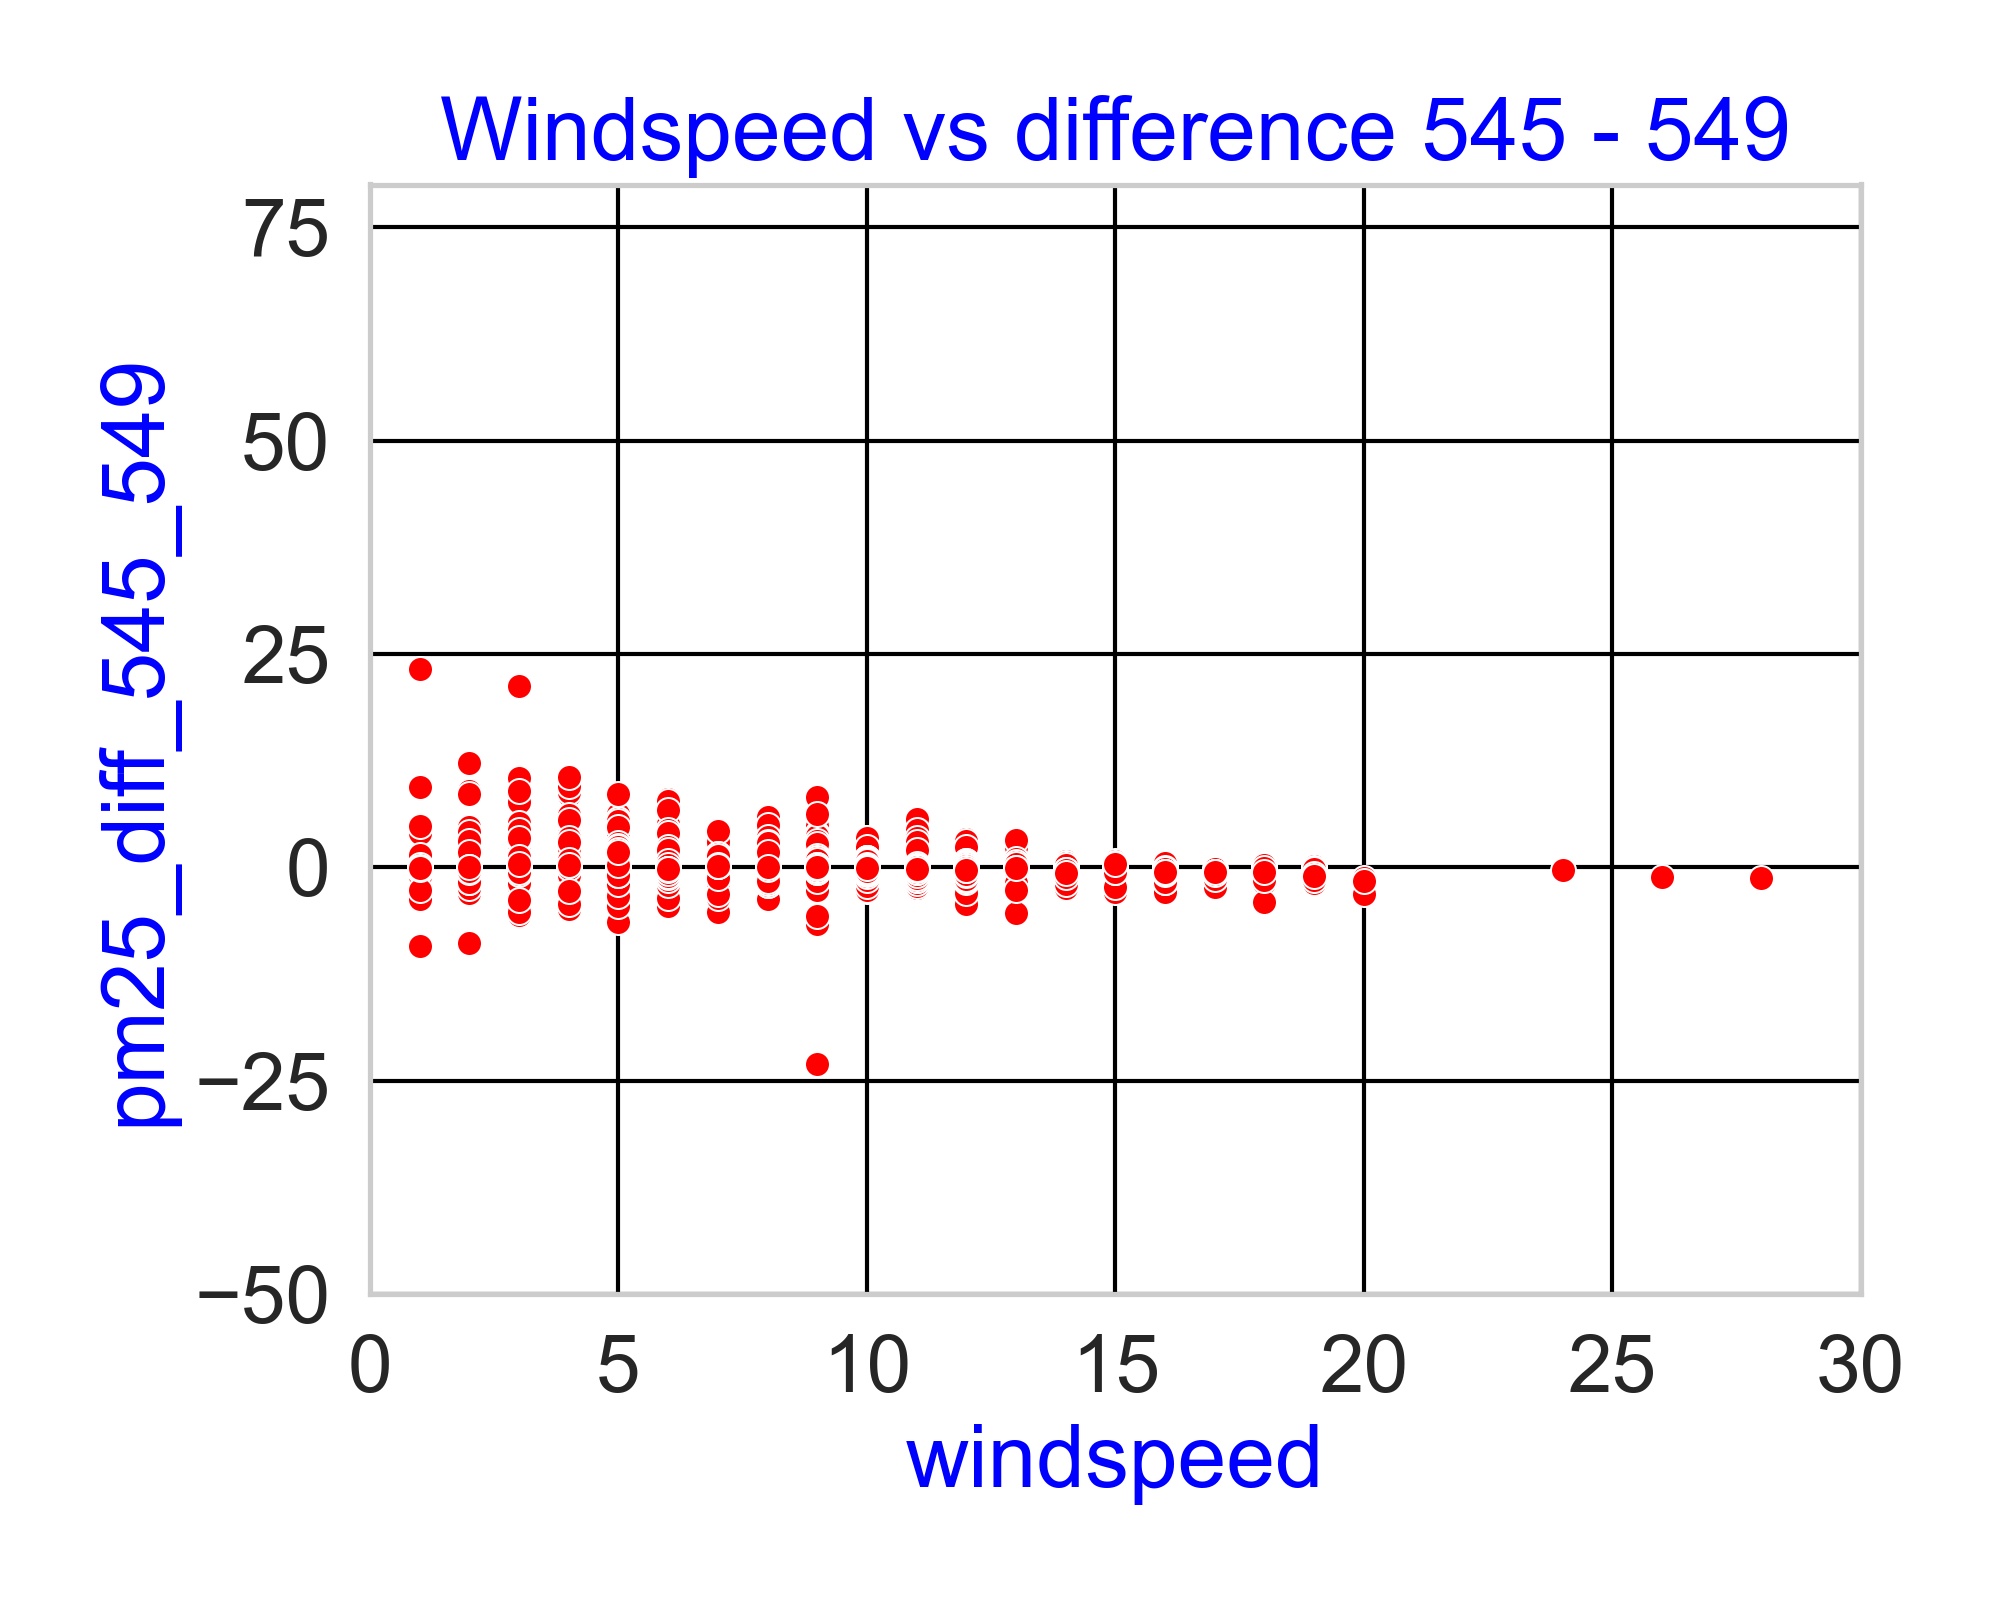
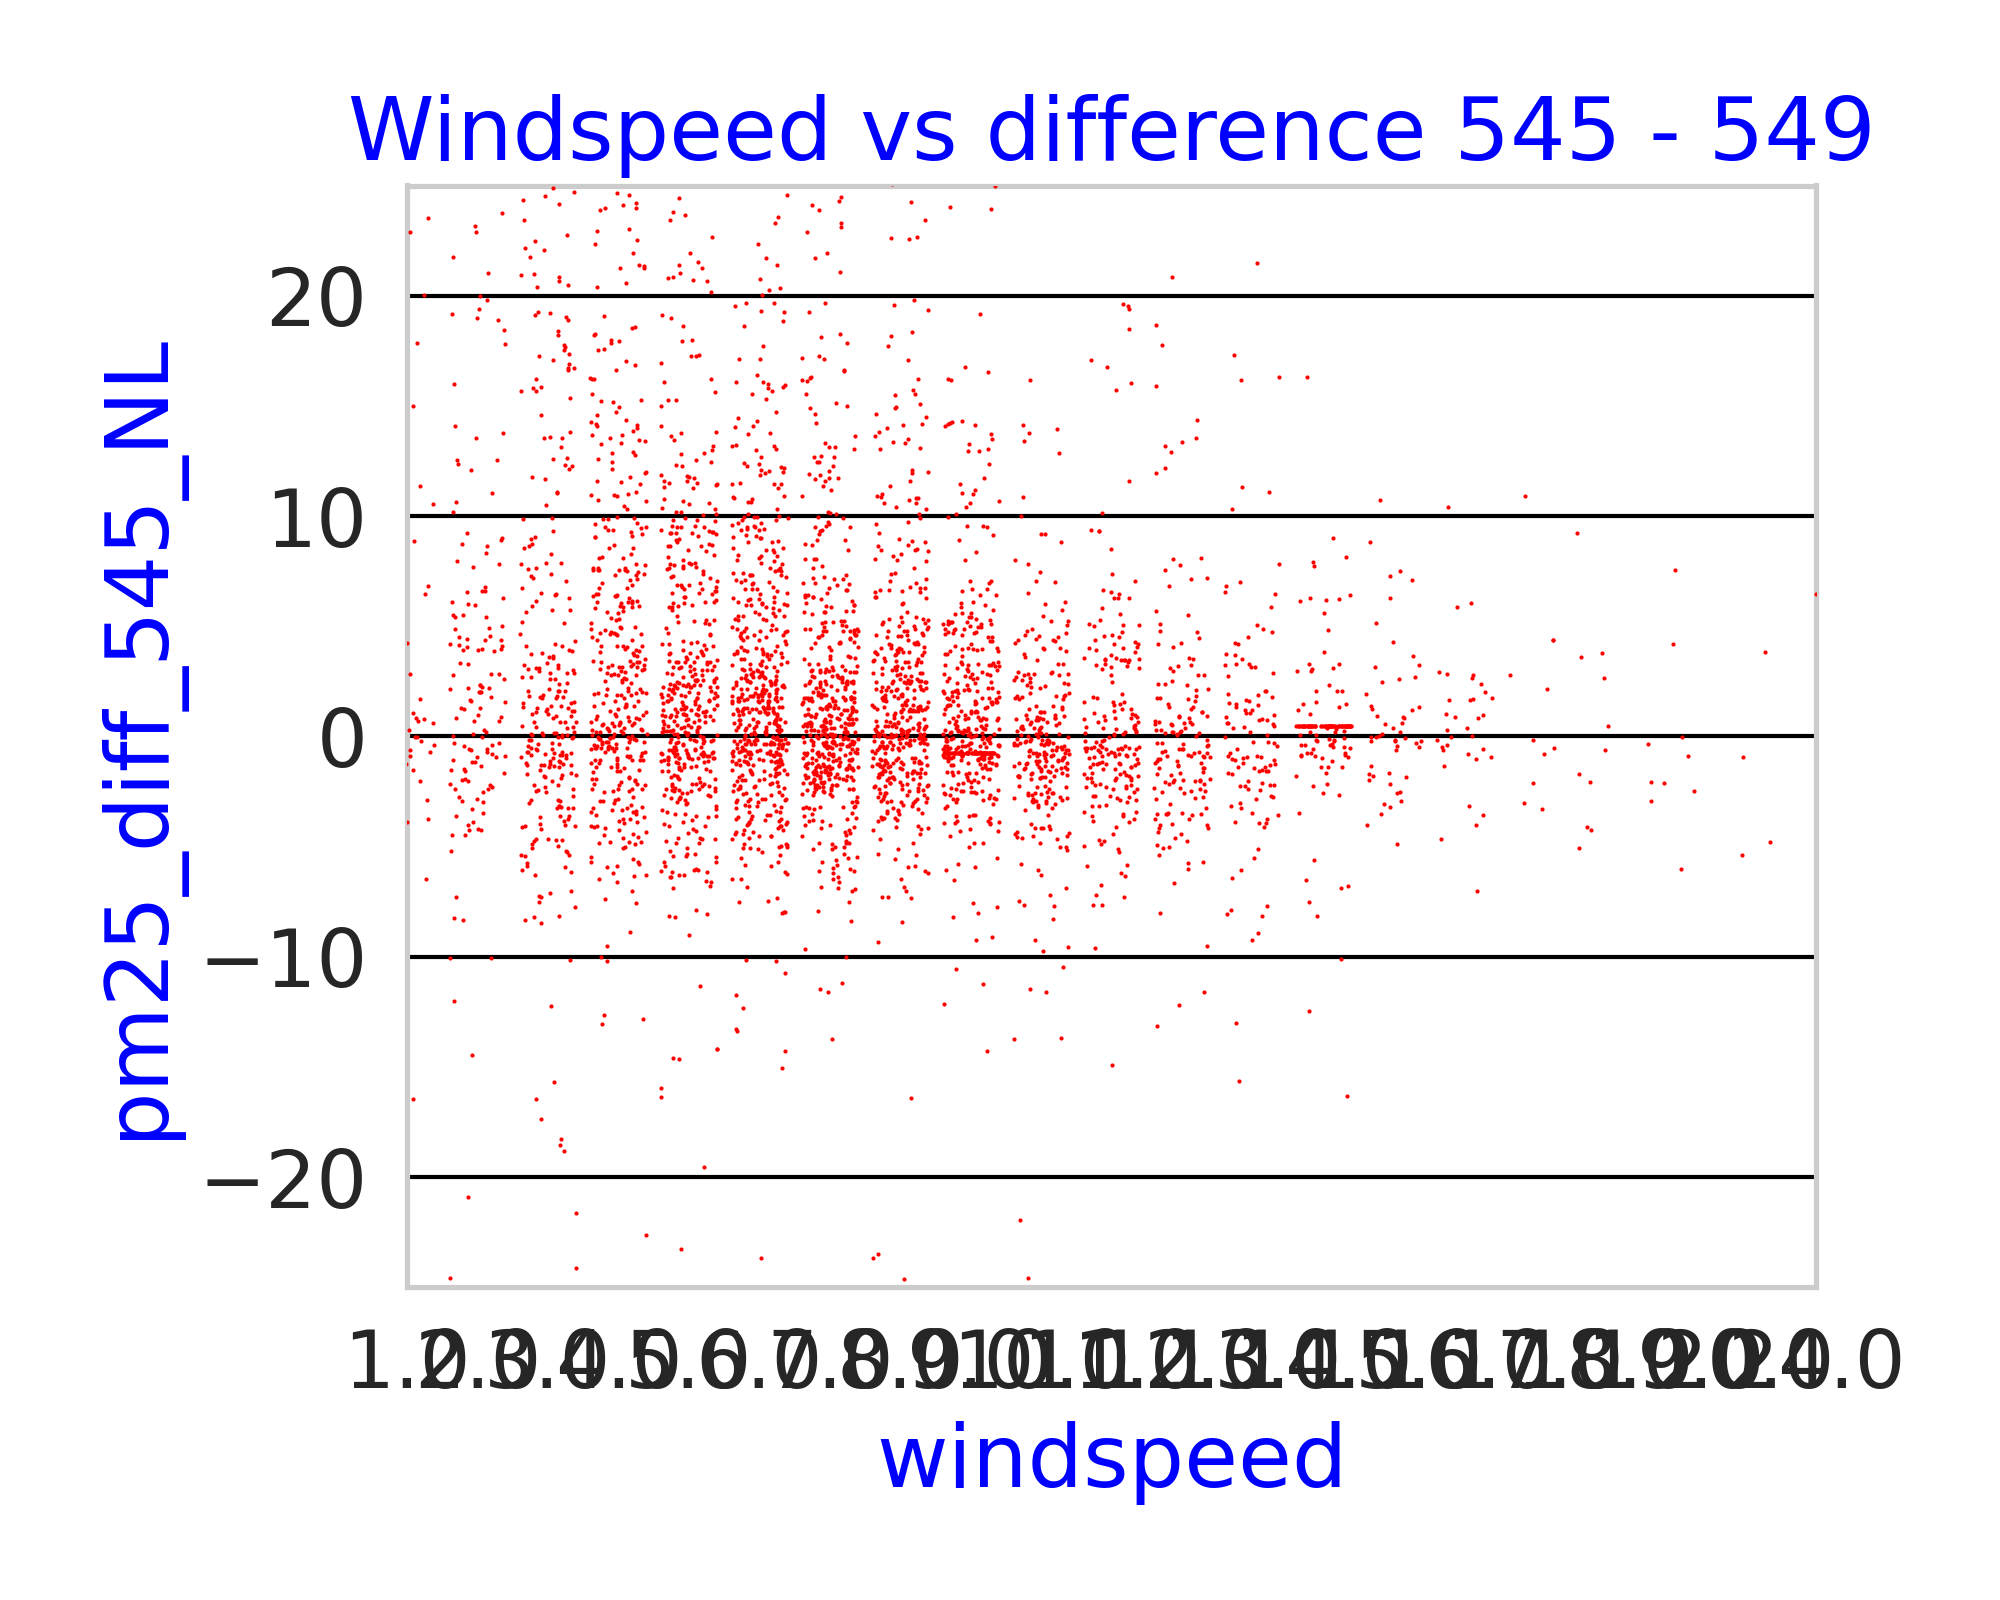
joint and stripplots

diff --git a/python/projects/staartje-20231003/Projectanalyzer.py b/python/projects/staartje-20231003/Projectanalyzer.py
@@ -152,6 +152,36 @@ def runit():
     createSuperFrame(allSensorsText, KNMI_225)
     augmentSuperframe()
 
+    simpleJointPlot(superFrameAugmented, x="pm25_NL49570", y="pm25_HLL_545",
+                      xlim=(-10, 50), ylim=(-20, 40), title="LML Absolute vs 545",
+                      filename=projectdir+"/3-49570-545", )
+
+    return
+
+#    setPlotSizeLandscape()
+#    lplot = sns.catplot(s=1, data=superFrameAugmented, kind="swarm", x="windspeed",
+#                        y="pm25_diff_545_NL")
+#    lplot.set(xlim=(0, 25))
+#    lplot.set(ylim=(-50, 50))
+
+    simpleStripPlot(superFrameAugmented, x="windspeed", y="pm25_diff_545_NL",
+                      xlim=(0, 20), ylim=(-25, 25), title="Windspeed vs difference 545 - NL",
+                      filename=projectdir+"/4-windspeed-545-NL")
+
+    simpleStripPlot(superFrameAugmented, x="windspeed", y="temperature_HLL_545",
+                      xlim=(0, 20), ylim=(0, 40), title="Windspeed vs temperature 545",
+                      filename=projectdir+"/4-windspeed-temperature-545")
+
+    simpleStripPlot(superFrameAugmented, x="windspeed", y="humidity_HLL_545",
+                      xlim=(0, 20), ylim=(20, 100), title="Windspeed vs humidity 545",
+                      filename=projectdir+"/4-windspeed-humidity-545")
+
+    simpleStripPlot(superFrameAugmented, x="windspeed", y="pm25_NL49570",
+                      xlim=(0, 20), ylim=(-10, 50), title="Windspeed vs pm25 NL",
+                      filename=projectdir+"/4-windspeed-pm25-NL")
+
+
+    return
     windplot(superFrameAugmented, "pm25_diff_545_NL", polar=False,
              useMedian=True, title="PM25 difference 545 - LML", smooth=3,
              method="medianvalues", filename=projectdir+"/4-windplot-545-NL")

diff --git a/python/plotter.py b/python/plotter.py
@@ -47,6 +47,50 @@ def simpleScatterPlot(aDataFrame, x, y,  xlim=(-40.0, 40.0), ylim=(-40.0, 40.0),
         setPlotSizeLandscape()
 
     scatter = sns.scatterplot(aDataFrame, x=x, y=y)
+#    scatter = sns.jointplot(aDataFrame, x=x, y=y)
+
+    scatter.set(title=title)
+    scatter.set(xlim=xlim)
+    scatter.set(ylim=ylim)
+    plt.tight_layout()
+    plt.show()
+    if describe:
+        print("Describe: " + title)
+        print(aDataFrame[y].describe())
+        print("---")
+    if filename:
+        scatter.get_figure().savefig(filename)
+
+def simpleJointPlot(aDataFrame, x, y,  xlim=(-40.0, 40.0), ylim=(-40.0, 40.0), title="Scatterplot", filename=False,
+                      describe=False):
+    # same length on x and y, assume square, otherwise landscape
+    if (xlim[1]-xlim[0]) == (ylim[1]-ylim[0]):
+        setPlotSizeSquare()
+    else:
+        setPlotSizeLandscape()
+
+    scatter = sns.jointplot(aDataFrame, x=x, y=y,
+                            xlim=xlim, ylim=ylim)
+    plt.tight_layout()
+    plt.show()
+    if describe:
+        print("Describe: " + title)
+        print(aDataFrame[y].describe())
+        print("---")
+    if filename:
+        scatter.get_figure().savefig(filename)
+
+
+def simpleStripPlot(aDataFrame, x, y,  xlim=(-40.0, 40.0), ylim=(-40.0, 40.0), title="Scatterplot", filename=False,
+                      describe=False):
+    # same length on x and y, assume square, otherwise landscape
+    if (xlim[1]-xlim[0]) == (ylim[1]-ylim[0]):
+        setPlotSizeSquare()
+    else:
+        setPlotSizeLandscape()
+
+    scatter = sns.stripplot(aDataFrame, x=x, y=y, size=1, jitter=0.2)
+
     scatter.set(title=title)
     scatter.set(xlim=xlim)
     scatter.set(ylim=ylim)
